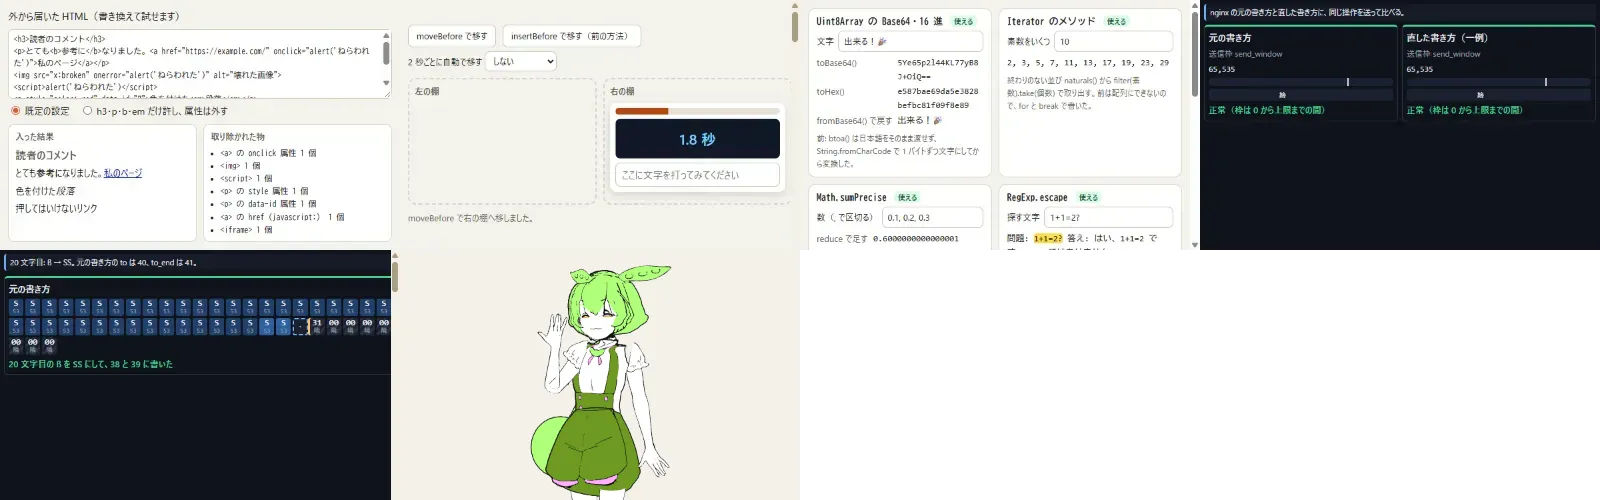
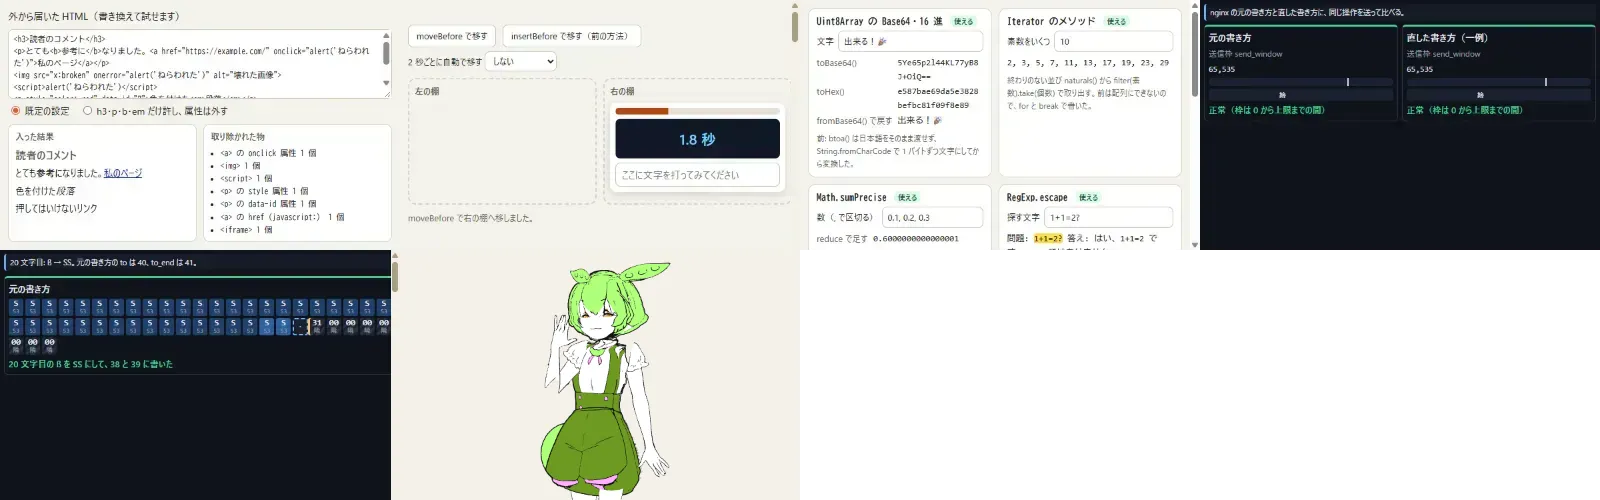
ずんだもん: 点検で見つかった崩れを直す（向きの切り替え・まばたき・飾り・髪の束・お辞儀の頭・脚の横の幅）
- 正面と横の絵の切り替えを 68 度にし、2 枚を重ねる幅を ±1.8 度に狭くした（二重に見えるのを防ぐ）
- 見る向きが絵から 12 度より離れたら、隣の向きの絵を下に敷く。向こうを向いた曲線は描かない
- まばたき: 瞳の上下から閉じる位置を決め、まつげを帯で動かし、髪を切らない
- 飾り: 画面に写した幅を正面の 45% より細くしない。横から見るほど手前の飾りを起こす
- 髪の束: 帯を先ほど太くして玉とつなげ、渦の線は横から見るときだけ描く。根元に髪留め
- 頭の前後の傾きを 0.45 ラジアンまでにする（limitTilt。お辞儀を正面から見ても顔がつぶれない）
- 髪の部品の 5 画素より小さな形（写したときの点のごみ）を描かない
- 脚の横の幅を 0.6 から 0.8 にした（横の外形の IoU 0.843 → 0.857）

Changed region(s): [[0.3125, 0.51, 0.4375, 0.93], [0.3438, 0.96, 0.4062, 0.99]]

diff --git a/entries/zunda.js b/entries/zunda.js
@@ -132,7 +132,7 @@ button:focus-visible { outline: 2px solid #234; outline-offset: 2px; }
     // 入れ替える所（4 分の 1 周の中の割合）: 正面と横の間は横寄り（正面の絵の方が、回しても崩れにくい）、横と後ろの間は真ん中。
     // band はなめらかに入れ替える幅（割合）
     const VIEWS = ['front', 'left', 'back', 'right'];
-    const SWITCH = [0.7, 0.5, 0.5, 0.3], BAND = 0.05;
+    const SWITCH = [68 / 90, 0.5, 0.5, 22 / 90], BAND = 0.02;
     function viewBlend(theta) {
       const a = ((theta % 360) + 360) % 360, k = Math.floor(a / 90 + 1e-9), t = a / 90 - k;
       const v0 = VIEWS[k % 4], v1 = VIEWS[(k + 1) % 4], m = SWITCH[k % 4];
@@ -140,6 +140,13 @@ button:focus-visible { outline: 2px solid #234; outline-offset: 2px; }
       if (s <= 1e-6) return [{ view: v0, alpha: 1 }];
       if (s >= 1 - 1e-6) return [{ view: v1, alpha: 1 }];
       return s < 0.5 ? [{ view: v1, alpha: 1 }, { view: v0, alpha: 1 - s }] : [{ view: v0, alpha: 1 }, { view: v1, alpha: s }];
+    }
+    // いま描く絵（primary）と、そのとなりの絵（neighbor）と、いま描く絵の向きからのずれ（度）。
+    // 斜めのときは、となりの絵を下に敷く（手前に回り込んだ所に、髪の筋や腰の帯が見える）
+    function viewPair(theta) {
+      const a = ((theta % 360) + 360) % 360, k = Math.floor(a / 90 + 1e-9), t = a / 90 - k;
+      const v0 = VIEWS[k % 4], v1 = VIEWS[(k + 1) % 4], first = t < SWITCH[k % 4];
+      return { primary: first ? v0 : v1, neighbor: first ? v1 : v0, offset: (first ? t : 1 - t) * 90 };
     }
 
     // ---- 骨格と部分（元の絵の座標）----
@@ -157,7 +164,7 @@ button:focus-visible { outline: 2px solid #234; outline-offset: 2px; }
         { name: 'hair', base: 'green', parts: { front: ['hair_back', 'hair_side_r', 'hair_side_l', 'hair_front'], side: ['hair'], back: ['hair'] },
           shape: { front: ['hair_back', 'hair_side_r', 'hair_side_l', 'hair_front', 'face'], side: ['hair', 'face'] } },
         // 顔にも白い下地を塗る（元の絵の顔の塗りは、目と口の所が穴になっている。まばたきや口を開くと、そこが見える）
-        { name: 'face', base: 'white', parts: { front: ['face', 'eye_r', 'eye_l', 'mouth'], side: ['face', 'eye_l'], back: [] }, shareFront: 'hair', facing: -0.4 },
+        { name: 'face', base: 'white', underlay: false, parts: { front: ['face', 'eye_r', 'eye_l', 'mouth'], side: ['face', 'eye_l'], back: [] }, shareFront: 'hair', facing: -0.4 },
       ] },
       { name: 'neck', bone: 'neck', ref: { front: [923.5, 345], side: 233, back: 1566.5 }, bias: -20, groups: one('neck', 'white', { front: ['neck'], side: ['neck'], back: ['neck'] }) },
       // 胴の形には、横の絵の袖も含める（横の絵では胴の後ろ半分が袖に隠れていて、含めないと奥行きが浅くなり、斜めから見ると肩まで届かない）
@@ -176,8 +183,8 @@ button:focus-visible { outline: 2px solid #234; outline-offset: 2px; }
       { part: 'thigh_l', bone: 'leftUpperLeg', child: 'leftLowerLeg', bias: -50 }, { part: 'shin_l', bone: 'leftLowerLeg', parent: 'leftUpperLeg', bias: -30 },
       { part: 'thigh_r', bone: 'rightUpperLeg', child: 'rightLowerLeg', bias: -50 }, { part: 'shin_r', bone: 'rightLowerLeg', parent: 'rightUpperLeg', bias: -30 },
     ];
-    // 横から見た手足の幅（正面の幅に対する割合）。脚の断面は前後に薄い楕円（三面図の横の脚は、正面の約 0.6 倍の幅）、腕は筒
-    const SIDE_W = { leftUpperLeg: 0.6, leftLowerLeg: 0.6, rightUpperLeg: 0.6, rightLowerLeg: 0.6 };
+    // 横から見た手足の幅（正面の幅に対する割合）。脚の断面は前後に少し薄い楕円、腕は筒。脚は 0.6 より 0.8 のほうが横の絵と外形がよく重なる（横の IoU 0.843 → 0.857）
+    const SIDE_W = { leftUpperLeg: 0.8, leftLowerLeg: 0.8, rightUpperLeg: 0.8, rightLowerLeg: 0.8 };
     // 見る向きでの幅の割合: 手足の前の面が見る人へ向く割合 c（0〜1）から、楕円の断面の見かけの幅 √(c² + r²(1 - c²))
     const widthAt = (c, r) => Math.sqrt(c * c + r * r * (1 - c * c));
     // 袖: ふくらみの形を保ったまま、腕の付け根を中心に腕の向きへ回す
@@ -318,14 +325,21 @@ button:focus-visible { outline: 2px solid #234; outline-offset: 2px; }
     // まばたき: 目の部品の点を「閉じた位置」へ動かす関数を作る。prof は列ごとの瞳の上 top と下 bot（x0 の列から）。
     // 閉じた線は瞳の上から 65% の所。瞳の上より上（まつげ）は形を保ったまま閉じた線まで下げ、瞳の中と下のまぶたは閉じた線へつぶす。
     // 閉じた目は、まつげの線 1 本になる。まつげと二重の線（瞳の上から 10 画素まで）は丸ごと下げ、18 画素より上は動かさず、その間で下げる量をなめらかに減らす
+    // 動かすのは瞳の左右の幅のまわりだけ（瞳の端から 14 画素までは丸ごと、24 画素で 0。目の横の髪の線を動かさない）。
+    // 塗り（line でないもの）は、まつげより上を動かさない（まつげの上の肌の白い塗りが下がって、横の髪を隠さないように）
     function eyeCloser(prof) {
-      const n = prof.top.length;
-      return (x, y) => {
+      const n = prof.top.length, x1 = prof.x0 + n - 1, smooth = (u) => { u = Math.max(0, Math.min(1, u)); return u * u * (3 - 2 * u); };
+      // 瞳の範囲（閉じた線を、まつげとまぶたの線だけに使うかを決めるため）
+      const box = { x0: prof.x0, x1, t: Math.min(...prof.top), b: Math.max(...prof.bot) };
+      return Object.assign((x, y, line = true) => {
         const i = Math.max(0, Math.min(n - 1, Math.round(x - prof.x0))), t = prof.top[i], b = prof.bot[i], yc = t + 0.65 * (b - t);
-        if (y >= t + 1) return [x, yc + (y - yc) * 0.04];
-        const u = Math.max(0, Math.min(1, (y - (t - 18)) / 8)), w = u * u * (3 - 2 * u);
-        return [x, y + (yc - t) * w];
-      };
+        const out = Math.max(prof.x0 - x, x - x1, 0), wx = 1 - smooth((out - 14) / 10);
+        if (wx <= 0) return [x, y];
+        if (y >= t + 1) return [x, y + (yc + (y - yc) * 0.04 - y) * wx];
+        if (!line) return [x, y];
+        const w = smooth((y - (t - 18)) / 8);
+        return [x, y + (yc - t) * w * wx];
+      }, { box });
     }
     // 開いた口の形（口の真ん中からの位置、元の絵の画素）。open は開き（0〜1）、width は横の広がり（0〜1）。
     // 上の辺はわずかに下がる曲線、下は半分の楕円
@@ -361,7 +375,7 @@ button:focus-visible { outline: 2px solid #234; outline-offset: 2px; }
     // 中心と幅は、写した 3 方向の絵の髪の束の部品から、高さごとに測った（X は後ろと正面の絵、Z は横の絵）
     const TAIL_REST = [[-4, 325, -67], [-64, 380, -106], [-105, 450, -140], [-140, 525, -168], [-181, 600, -200]];
     // 巻いた先は、正面と後ろからは幅 約 185、横からは 約 135 の丸に見えるので、奥行きの短い楕円の玉として描く（r は X・Y・Z の半径）
-    const TAIL_W = [12, 15, 23, 33, 44], CURL = { c: [-240, 668, -253], r: [92, 92, 66] };
+    const TAIL_W = [12, 16, 28, 46, 64], CURL = { c: [-240, 668, -253], r: [92, 92, 66] };
     const tailInit = (rest) => ({ p: rest.map((v) => v.slice()), q: rest.map((v) => v.slice()), len: rest.slice(1).map((v, i) => Math.hypot(v[0] - rest[i][0], v[1] - rest[i][1], v[2] - rest[i][2])) });
     // 1 コマ進める: 根元は targets[0] に付け、ほかの点は、慣性（前のコマからの動き）と、休みの形の位置へ戻る力と、重さで動かす。
     // 戻る力は先ほど弱く、先ほどよく揺れる。そのあと根元から順に、区間の長さを休みの形の長さに戻す
@@ -404,16 +418,26 @@ button:focus-visible { outline: 2px solid #234; outline-offset: 2px; }
       return { rot, hips: h };
     }
 
-    const Z = { parsePath, subdivide, buildProxy, lift, hull, rotX, rotY, rotZ, mul3, applyMat3, viewAngle, viewBlend, VIEWS, AXIS, REGIONS, CARDS, SLEEVES, SIDE_W, widthAt, view, dequant, sampleClip,
+    // 頭の前後の傾きを抑える: 三面図には上と下から見た絵がないので、頭の上の向き（u = M·(0,-1,0)）が画面から前後へ傾く角度を max までにする。
+    // u を、画面の中の向きを保ったまま、画面へ近づける向きに回す（軸は u × 画面の奥の向き）。横から見たお辞儀は画面の中の回転なので変わらない
+    function limitTilt(M, max) {
+      const u = [-M[1], -M[4], -M[7]], h = Math.hypot(u[0], u[1]), tilt = Math.atan2(u[2], h);
+      if (Math.abs(tilt) <= max) return M;
+      const ax = h > 1e-6 ? norm3([u[1], -u[0], 0]) : [1, 0, 0];   // u × (0,0,1)
+      return mul3(qmat(qaxis(ax, Math.sign(tilt) * max - tilt)), M);
+    }
+    const Z = { parsePath, subdivide, buildProxy, lift, hull, rotX, rotY, rotZ, mul3, applyMat3, viewAngle, viewBlend, viewPair, VIEWS, AXIS, REGIONS, CARDS, SLEEVES, SIDE_W, widthAt, view, dequant, sampleClip,
       TAIL_REST, TAIL_W, CURL, tailInit, tailStep, eyeCloser, mouthShape, vowels, VOWEL_SHAPE,
       qmul, qconj, qaxis, qrot, qfromTo, qslerp, qmat, norm3, SKEL, buildSkeleton, restLocals, fk, boneDraw, HIPS_REST, PX_PER_M, hipsFromMotion, cardMap, jointBlend,
-      FLOOR_Y, HIPS_BOTTOM, groundOffset };
+      FLOOR_Y, HIPS_BOTTOM, groundOffset, limitTilt };
   },
   js() {
     const t0 = performance.now(), cv = document.getElementById('c'), g = cv.getContext('2d');
     const D = window.DEKIRU_DATA, SRC = { front: D['zunda-front'], side: D['zunda-side'], back: D['zunda-back'] }, PAL = SRC.front.palette;
     // ---- 曲線を読む（長い区間は 6 画素以下に分ける）----
-    const prep = (V) => V.shapes.map((s, i) => ({ i, part: s.part, kind: s.kind, color: V.palette[s.color], subs: Z.parsePath(s.d, V.origin).map((q) => Z.subdivide(q, 6)) }));
+    // 髪の部品の、5 画素より小さな部分（写したときの点のごみ）は描かない。髪の形から外れた所にあると、立体にしたときに頭の上に浮く
+    const speck = (q) => { let x0 = 1e9, y0 = 1e9, x1 = -1e9, y1 = -1e9; for (let j = 0; j < q.length; j += 2) { x0 = Math.min(x0, q[j]); x1 = Math.max(x1, q[j]); y0 = Math.min(y0, q[j + 1]); y1 = Math.max(y1, q[j + 1]); } return Math.max(x1 - x0, y1 - y0) < 5; };
+    const prep = (V) => V.shapes.map((s, i) => ({ i, part: s.part, kind: s.kind, color: V.palette[s.color], subs: Z.parsePath(s.d, V.origin).filter((q) => !(s.part.startsWith('hair') && speck(q))).map((q) => Z.subdivide(q, 6)) }));
     const ART = { front: prep(SRC.front), side: prep(SRC.side), back: prep(SRC.back) };
     function addSub(p, s, f) {
       let q = f(s[0], s[1]); p.moveTo(q[0], q[1]);
@@ -435,7 +459,7 @@ button:focus-visible { outline: 2px solid #234; outline-offset: 2px; }
     }
     // 確かめ用の状態（spread: 貼るときの広げ方、force: 1 枚の絵だけを描く、cam: 見る向き（ラジアン）、clip・time: 動きと時刻を決める、
     // blink: まばたきを決める（null なら自動）、mouth: 口の [開き, 幅] を決める）
-    const state = { spread: 1.3, outline: 1.2, base: true, force: null, cam: 0, camPitch: 0, clip: null, time: null, paused: false, blink: null, mouth: null, frame: null };
+    const state = { spread: 1.3, outline: 1.2, base: true, force: null, cam: 0, camPitch: 0, clip: null, time: null, paused: false, blink: null, mouth: null, frame: null, hide: null };   // hide: 確かめ用に描かない部分（'pods' など）
     // 目: 瞳（オレンジと黄色）の塗りを画素に描いて、列ごとの上と下を数え、閉じた位置へ動かす関数を作る。
     // 白い塗りで測らない（目の部品には、まつげの上の肌も入っている）。瞳の塗りがない目（横の絵）は、白い塗りで測る
     function eyeProfile(shapes, V) {
@@ -456,6 +480,7 @@ button:focus-visible { outline: 2px solid #234; outline-offset: 2px; }
       const t = Math.min(...top.filter((v) => !Number.isNaN(v))), b = Math.max(...bot.filter((v) => !Number.isNaN(v)));
       return Z.eyeCloser({ x0: x0 + V.origin[0], top: top.map(() => t), bot: bot.map(() => b) });
     }
+    const VDIR = { front: [0, 0, 1], left: [1, 0, 0], back: [0, 0, -1], right: [-1, 0, 0] };   // 絵ごとの、見る人の向き
     const EYES = { front: {}, side: {} };
     for (const [v, list] of [['front', ['eye_r', 'eye_l']], ['side', ['eye_l']]]) for (const part of list) EYES[v][part] = eyeProfile(ART[v].filter((s) => s.part === part), SRC[v]);
 
@@ -477,13 +502,21 @@ button:focus-visible { outline: 2px solid #234; outline-offset: 2px; }
       // 目の部品は、閉じた位置（ptsC）も持ち上げておく（まばたきは、毎コマ開いた位置との間をつなぐ）
       const liftArt = (shapes, view, toU) => shapes.map((s) => {
         const closer = EYES[view === 'front' ? 'front' : 'side']?.[s.part];
-        const liftQ = (q, f) => {
-          const o = new Float32Array(q.length / 2 * 3), PP = view === 'front' || view === 'back' ? Pfront : P;
-          for (let i = 0, j = 0; i < q.length; i += 2, j += 3) { const [x, y] = f(q[i], q[i + 1]), p = Z.lift(PP, view, toU(x), y, state.spread); o[j] = p[0]; o[j + 1] = p[1] - jy; o[j + 2] = p[2]; }
+        // 閉じた線ごとに、立体の形の上の向き（法線）の平均も残す（見る人から向こうを向いた線は描かない）
+        const nrm = [];
+        const liftQ = (q, f, keep) => {
+          const o = new Float32Array(q.length / 2 * 3), PP = view === 'front' || view === 'back' ? Pfront : P; let nx = 0, ny = 0, nz = 0;
+          for (let i = 0, j = 0; i < q.length; i += 2, j += 3) { const [x, y] = f(q[i], q[i + 1]), p = Z.lift(PP, view, toU(x), y, state.spread); o[j] = p[0]; o[j + 1] = p[1] - jy; o[j + 2] = p[2]; nx += p[3]; ny += p[4]; nz += p[5]; }
+          // 4 つ目は、絵の向きから見たときの向き（元の向きでは、その値より向こうを向かない限り描く）
+          if (keep) { const l = Math.hypot(nx, ny, nz) || 1, vd = VDIR[view]; nrm.push(nx / l, ny / l, nz / l, (nx * vd[0] + nz * vd[2]) / l); }
           return o;
         };
-        const out = { ...s, facing: G.facing ?? -2, pts: s.subs.map((q) => liftQ(q, (x, y) => [x, y])) };
-        if (closer && view !== 'back') out.ptsC = s.subs.map((q) => liftQ(q, closer));
+        const line = s.kind === 'line';
+        const out = { ...s, facing: G.facing ?? -2, underlay: G.underlay !== false, pts: s.subs.map((q) => liftQ(q, (x, y) => [x, y], true)) };
+        out.nrm = Float32Array.from(nrm);
+        // 閉じた位置へ動かすのは、まつげとまぶたの高さに収まる線だけ（目の部品に入った、縦に長い髪の筋の線は動かさない）
+        const moves = (q) => { if (!line) return true; let y0 = Infinity, y1 = -Infinity, xs = 0; for (let i = 0; i < q.length; i += 2) { y0 = Math.min(y0, q[i + 1]); y1 = Math.max(y1, q[i + 1]); xs += q[i]; } const cx = xs / (q.length / 2), b = closer.box; return y0 >= b.t - 24 && y1 <= b.b + 10 && cx >= b.x0 - 22 && cx <= b.x1 + 22; };
+        if (closer && view !== 'back') out.ptsC = s.subs.map((q, k) => (moves(q) ? liftQ(q, (x, y) => closer(x, y, line), false) : out.pts[k]));
         return out;
       });
       const lifted = { front: liftArt(art.front, 'front', (x) => x - jx), left: liftArt(art.side, 'left', (x) => jz - x), back: liftArt(art.back, 'back', (x) => jb - x), right: liftArt(art.side, 'right', (x) => jz - x) };
@@ -532,10 +565,39 @@ button:focus-visible { outline: 2px solid #234; outline-offset: 2px; }
       }) }));
       let tip = base, far = 0;
       for (const s of shapes) for (const o of s.pts) for (let j = 0; j < o.length; j += 3) { const d = Math.hypot(o[j] - base[0], o[j + 1] - base[1], o[j + 2] - base[2]); if (d > far) { far = d; tip = [o[j], o[j + 1], o[j + 2]]; } }
-      return { part, shapes, base, tip, n: Z.norm3([k * side, 0, 1]), sim: null };
+      // 板の上の向き: u は根元から先、v は幅（u と板の向き n に直交）。点は、根元からの u と v の量（a, b）で持つ
+      const n = Z.norm3([k * side, 0, 1]), u = Z.norm3([tip[0] - base[0], tip[1] - base[1], tip[2] - base[2]]);
+      const v = Z.norm3([n[1] * u[2] - n[2] * u[1], n[2] * u[0] - n[0] * u[2], n[0] * u[1] - n[1] * u[0]]);
+      for (const s of shapes) s.ab = s.pts.map((o) => { const r = new Float32Array(o.length / 3 * 2); for (let j = 0, i = 0; j < o.length; j += 3, i += 2) { const d = [o[j] - base[0], o[j + 1] - base[1], o[j + 2] - base[2]]; r[i] = d[0] * u[0] + d[1] * u[1] + d[2] * u[2]; r[i + 1] = d[0] * v[0] + d[1] * v[1] + d[2] * v[2]; } return r; });
+      return { part, shapes, base, tip, n, u, v, side, sim: null };
     });
+    // 飾りを描く: 板の向き u・v を回転 q で回して画面に写す。写した幅（u に直交する向きの量）が正面の 45% より細いときは、45% まで広げる
+    // （板が真横を向いても、細い線にならず葉の形が見える）
+    const POD_MIN_W = 0.45, POD_MIN_LEN = 0.35;   // 画面に写した飾りの幅と長さの下限（正面のときを 1 とする）
+    function drawPod(tg, pod, q, M, J, S, only) {
+      const U = Z.applyMat3(M, Z.qrot(q, pod.u)), V = Z.applyMat3(M, Z.qrot(q, pod.v)), B0 = Z.applyMat3(M, pod.base);
+      // 画面の上で、u の向き（ux, uy）と、それに直交する向き（px, py）に分ける。幅は直交する向きの量で測る
+      let lu = Math.hypot(U[0], U[1]), ux = 0, uy = -1;
+      if (lu > 1e-3) { ux = U[0] / lu; uy = U[1] / lu; }
+      lu = Math.max(lu, POD_MIN_LEN);   // 先がこちらを向いても、点にはしない
+      const px = -uy, py = ux, vPar = V[0] * ux + V[1] * uy, vPerp = V[0] * px + V[1] * py;
+      const vp = (vPerp < 0 ? -1 : 1) * Math.max(Math.abs(vPerp), POD_MIN_W);
+      const Ux = ux * lu, Uy = uy * lu, vx = vPar * ux + vp * px, vy = vPar * uy + vp * py;
+      for (const s of pod.shapes) {
+        if (only && !only(s)) continue;
+        const p = new Path2D();
+        for (const r of s.ab) {
+          const f = (i) => { const x = J[0] + (B0[0] + r[i] * Ux + r[i + 1] * vx) * S, y = J[1] + (B0[1] + r[i] * Uy + r[i + 1] * vy) * S; grow(x, y); return [x, y]; };
+          const a = f(0); p.moveTo(a[0], a[1]);
+          for (let i = 2; i + 6 <= r.length; i += 6) { const b = f(i), c = f(i + 2), d = f(i + 4); p.bezierCurveTo(b[0], b[1], c[0], c[1], d[0], d[1]); }
+          p.closePath();
+        }
+        tg.fillStyle = s.color; tg.fill(p);
+      }
+    }
     // 飾りの揺れ: 根元と先の 2 点の鎖を、頭の動きに遅れて揺らし、その向きの差（最大 25 度）で飾りの点を根元のまわりに回す
-    function podFrame(pod, P, dt) {
+    const POD_TILT = 0.75;   // 真横から見たときに、手前の飾りの先を上へ起こす角度（ラジアン）
+    function podFrame(pod, P, dt, M) {
       const d = Z.boneDraw(SK, P, BI.head), hp = P.p[BI.head];
       const world = (v) => { const o = Z.qrot(d.q, v); return [hp[0] + o[0], hp[1] + o[1], hp[2] + o[2]]; };
       const targets = [world(pod.base), world(pod.tip)];
@@ -545,8 +607,13 @@ button:focus-visible { outline: 2px solid #234; outline-offset: 2px; }
       let q = Z.qfromTo([pod.tip[0] - pod.base[0], pod.tip[1] - pod.base[1], pod.tip[2] - pod.base[2]], [tl[0] - pod.base[0], tl[1] - pod.base[1], tl[2] - pod.base[2]]);
       const ang = 2 * Math.acos(Math.min(1, Math.abs(q[3]))), MAX = 25 * Math.PI / 180;
       if (ang > MAX) q = Z.qslerp([0, 0, 0, 1], q, MAX / ang);
-      const b = pod.base, rot = (o) => { const out = new Float32Array(o.length); for (let j = 0; j < o.length; j += 3) { const v = Z.qrot(q, [o[j] - b[0], o[j + 1] - b[1], o[j + 2] - b[2]]); out[j] = b[0] + v[0]; out[j + 1] = b[1] + v[1]; out[j + 2] = b[2] + v[2]; } return out; };
-      return { shapes: pod.shapes.map((s) => ({ ...s, pts: s.pts.map(rot) })), n: Z.qrot(q, pod.n) };
+      // 横から見るほど、先を上へ起こす（三面図の横の絵では、飾りが上と後ろへ立っている。正面の絵の形は変えない）
+      // 軸は u × 真上（-Y）。この軸のまわりに正の角度で回すと、先が上へ向く
+      // 手前の飾りだけを大きく起こし、向こうの飾りは後ろへ伸ばしたままにする（真横では 2 つが重なって 1 つに見えるため。三面図の横の絵も、1 つは立ち、1 つは後ろへ伸びる）
+      const sn = Math.sin(Z.viewAngle(M) * Math.PI / 180), ax = Z.norm3([pod.u[2], 0, -pod.u[0]]);
+      const zb = M[6] * pod.base[0] + M[7] * pod.base[1] + M[8] * pod.base[2], near = 0.5 + 0.5 * Math.max(-1, Math.min(1, zb / Math.abs(pod.base[0])));
+      q = Z.qmul(q, Z.qaxis(ax, POD_TILT * sn * sn * near));
+      return q;
     }
     // 髪の束: 根元は頭（首の後ろの玉）に付け、ほかの点は胸に付いた休みの形へ戻りながら揺れる
     let tail = null;
@@ -638,9 +705,12 @@ button:focus-visible { outline: 2px solid #234; outline-offset: 2px; }
     const clearBox = (L, b) => { L.g.setTransform(1, 0, 0, 1, 0, 0); L.g.globalAlpha = 1; L.g.globalCompositeOperation = 'source-over'; L.g.clearRect(b[0], b[1], b[2], b[3]); };
     // 3D の点の並び（部分の付け根からの位置）を、回転 M・付け根の画面の位置 J・縮尺 S で写して塗る
     let blinkNow = 0;   // いまのまばたき（0 開く〜1 閉じる）
+    const CULL = 0.08;  // 閉じた線の向きが、見る人の方へこれより向いていなければ描かない（元の絵の向きより 0.15 以上向こうを向いたときだけ。息や小さな揺れでは消さない）
     function fillPts(tg, s, M, J, S) {
       const p = new Path2D(), bl = s.ptsC ? blinkNow : 0;
       for (let n = 0; n < s.pts.length; n++) {
+        // 立体の形の上で向こうを向いた閉じた線は描かない（回すと奥の線が縁に押し寄せて重なるため）
+        if (s.nrm && M[6] * s.nrm[n * 4] + M[7] * s.nrm[n * 4 + 1] + M[8] * s.nrm[n * 4 + 2] < Math.min(CULL, s.nrm[n * 4 + 3] - 0.15)) continue;
         const q = s.pts[n], qc = bl > 0 ? s.ptsC[n] : null;
         const f = (k) => {
           let X = q[k], Y = q[k + 1], Zz = q[k + 2];
@@ -688,6 +758,9 @@ button:focus-visible { outline: 2px solid #234; outline-offset: 2px; }
       const front = blend[blend.length - 1].view === 'front' && M[8] > 0.2, open = R.name === 'head' && front ? mouthNow[0] : 0;
       outlined(S, (tg) => {
         if (state.base) for (const G of R.groups) if (G.base && M[8] >= (G.facing ?? -2)) drawBase(tg, G, M, J, S);
+        // 斜めのとき（いま描く絵の向きから 12 度より離れたとき）は、となりの向きの絵を下に敷く（顔は敷かない）
+        const pair = Z.viewPair(theta);
+        if (!state.force && pair.offset > 12) for (const s of R.lifted[pair.neighbor]) if (s.underlay && M[8] >= s.facing) fillPts(tg, s, M, J, S);
         for (const { view, alpha } of blend) {
           // 口を開いているときは、閉じた口（:3）の線を描かない
           const list = R.lifted[view].filter((s) => M[8] >= s.facing && !(open > 0.12 && s.part === 'mouth' && s.kind === 'line'));
@@ -739,7 +812,9 @@ button:focus-visible { outline: 2px solid #234; outline-offset: 2px; }
       mouthNow = [mouthNow[0] + (m[0] - mouthNow[0]) * r, mouthNow[1] + (m[1] - mouthNow[1]) * r];
     }
     // 髪の束: 鎖の点をなめらかな線（Catmull-Rom）でつなぎ、幅を付けた帯にする。先に丸く巻いた所（3D の円盤を写した楕円）を付ける
-    function drawTail(pts, curl, S) {
+    // side: 横から見ている度合い（0: 正面か後ろ、1: 真横）。巻いた筋は、三面図の横の絵にだけあるので、横から見るときだけ描く
+    function drawTail(pts, curl, S, side) {
+      const cx = curl.reduce((a, q) => a + q[0], 0) / curl.length, cy = curl.reduce((a, q) => a + q[1], 0) / curl.length;
       outlined(S, (tg) => {
         const sm = [], wd = [];
         for (let i = 0; i < pts.length - 1; i++) {
@@ -751,6 +826,8 @@ button:focus-visible { outline: 2px solid #234; outline-offset: 2px; }
           }
         }
         sm.push(pts[pts.length - 1].slice(0, 2)); wd.push(Z.TAIL_W[Z.TAIL_W.length - 1] * S / 2);
+        // 帯の先を玉の中まで伸ばして、帯と玉を 1 つにつなげる（三面図では、帯が太くなりながら玉に入る）
+        const e = pts[pts.length - 1]; sm.push([e[0] + (cx - e[0]) * 0.55, e[1] + (cy - e[1]) * 0.55]); wd.push(Z.TAIL_W[Z.TAIL_W.length - 1] * S / 2);
         const L = [], R = [];
         sm.forEach((p, i) => {
           const a = sm[Math.max(0, i - 1)], b = sm[Math.min(sm.length - 1, i + 1)], dx = b[0] - a[0], dy = b[1] - a[1], l = Math.hypot(dx, dy) || 1;
@@ -764,6 +841,19 @@ button:focus-visible { outline: 2px solid #234; outline-offset: 2px; }
           tg.fill(p);
         }
       });
+      // 先の玉の中の、巻いた筋: 帯が入る所から、帯が進む向きに玉の中心のまわりを回りながら内側へ入る渦の線
+      const al = Math.max(0, Math.min(1, (side - 0.45) / 0.3));
+      if (al > 0) {
+        const rx = (Math.max(...curl.map((q) => q[0])) - Math.min(...curl.map((q) => q[0]))) / 2, ry = (Math.max(...curl.map((q) => q[1])) - Math.min(...curl.map((q) => q[1]))) / 2;
+        const end = pts[pts.length - 1], prev = pts[pts.length - 2], a0 = Math.atan2(end[1] - cy, end[0] - cx);
+        // 回る向き: 帯の先の点が、中心のまわりをどちら向きに回りながら進むか（r × t の符号）
+        const dir = (end[0] - cx) * (end[1] - prev[1]) - (end[1] - cy) * (end[0] - prev[0]) >= 0 ? 1 : -1;
+        g.save(); g.globalAlpha = al; g.strokeStyle = PAL.line; g.lineWidth = Math.max(1, 2 * S); g.lineCap = 'round'; g.beginPath();
+        for (let k = 0; k <= 24; k++) { const t = k / 24, a = a0 + dir * t * 2.6, r = 0.92 - 0.42 * t, x = cx + Math.cos(a) * rx * r, y = cy + Math.sin(a) * ry * r; if (k) g.lineTo(x, y); else g.moveTo(x, y); }
+        g.stroke(); g.restore();
+      }
+      // 根元の桃色の髪留め（三面図の横と後ろの絵にある玉）
+      const r0 = pts[0]; g.fillStyle = PAL.pink; g.beginPath(); g.arc(r0[0], r0[1], 8 * S, 0, Math.PI * 2); g.fill(); g.lineWidth = Math.max(1, 1.6 * S); g.stroke();
     }
     // 手足の板: 骨ごとの写し方（cardMap）を、点ごとの重みで混ぜる
     function drawCard(C, maps) {
@@ -801,6 +891,7 @@ button:focus-visible { outline: 2px solid #234; outline-offset: 2px; }
         g.fillStyle = sh.color; g.fill(p);
       }
     }
+    const HEAD_TILT = 0.45;   // 頭が見る人の方へ（または奥へ）傾いて見える角度の上限（ラジアン）。お辞儀を正面から見たとき、顔がつぶれないようにする
     let scrEnd = null, faceSign = () => 1;
     // ---- 1 コマ ----
     let prevT = null, clock = 0, follow = 0, lastHead = null;
@@ -835,14 +926,14 @@ button:focus-visible { outline: 2px solid #234; outline-offset: 2px; }
       // 描くものを、見る人からの近さ（＋部品ごとの差）の順に並べる
       const items = [];
       for (const R of REG) {
-        const d = Z.boneDraw(SK, P, R.bi), M = Z.mul3(C, Z.qmat(d.q));
+        const d = Z.boneDraw(SK, P, R.bi), M0 = Z.mul3(C, Z.qmat(d.q)), M = R.name === 'head' ? Z.limitTilt(M0, HEAD_TILT) : M0;
         items.push({ key: depth(P.p[R.bi]) + R.bias, draw: () => drawRegion(R, M, scr(R.bi), S) });
-        if (R.name === 'head') for (const pod of PODS) {
-          const f = podFrame(pod, P, state.paused ? 0 : dt), J = scr(R.bi), front = M[6] * f.n[0] + M[7] * f.n[1] + M[8] * f.n[2] > 0;
-          // 裏が見えるとき（後ろから）は頭より先に描く（後ろの絵では、根元が髪に隠れている）
+        if (R.name === 'head' && !(state.hide || []).includes('pods')) for (const pod of PODS) {
+          const q = podFrame(pod, P, state.paused ? 0 : dt, M), J = scr(R.bi), nn = Z.qrot(q, pod.n), front = M[6] * nn[0] + M[7] * nn[1] + M[8] * nn[2] > 0;
+          // 裏が見えるとき（後ろから）は豆を描かず外形だけにし、頭より先に描く（後ろの絵では、根元が髪に隠れている）
           items.push({ key: depth(P.p[R.bi]) + R.bias + (front ? 1 : -1), draw: () => {
-            if (front) for (const s of f.shapes) fillPts(g, s, M, J, S);
-            else outlined(S, (tg) => { for (const s of f.shapes) if (s.kind === 'fill' && s.color === PAL.green) fillPts(tg, s, M, J, S); });
+            if (front) drawPod(g, pod, q, M, J, S);
+            else outlined(S, (tg) => drawPod(tg, pod, q, M, J, S, (s) => s.kind === 'fill' && s.color === PAL.green));
           } });
         }
       }
@@ -857,7 +948,8 @@ button:focus-visible { outline: 2px solid #234; outline-offset: 2px; }
         for (let k = 0; k < 32; k++) { const t = k / 32 * Math.PI * 2; disc.push([c[0] + Math.cos(t) * rh, c[1] + Math.sin(t) * rv]); }
         const dz = (chain.reduce((s, q) => s + q[2], 0) + c[2]) / (chain.length + 1);
         // 根元は首の後ろにあるので、首より奥に並べる（後ろから見るときは、平均の近さで胴より手前に来る）
-        items.push({ key: dz - 60, draw: () => drawTail(chain, disc, S) });
+        const sd = Math.min(1, Math.abs(ax[0][2]) / Z.CURL.r[0]);
+        items.push({ key: dz - 60, draw: () => drawTail(chain, disc, S, sd) });
       }
       items.sort((a, b) => a.key - b.key);
       updateFace(state.paused ? 0 : dt);

diff --git a/js/thumbs.js b/js/thumbs.js
@@ -1,5 +1,5 @@
 // 一覧のカードの静止画の目録。node tools/thumbs.mjs が作る。手で直さない
-window.DEKIRU_THUMBS = {"v":1,"w":400,"h":250,"cols":4,"rows":2,"sheets":["68d72c","4e08da","19ffa2","dd35ff","dd3a9c","60fbf0","63e81e","b7a4d3","686b21","92cefe","eb8186","f2066e","45a218","2a91ab","37d693","24ab4a","5a54cd","f752e7","d5e527","6c6f03","a925dd","52db0c","cf580e","4ff3cb","e52822","8d4c85","86cb75","aea336","88ed5d","d743dc","151077","a2a63d","026310","3bb873","eda318","f2d7f7","5b432b","315430","5da556","f6d5b0","4c1b0f","a1602a","17a31a","899807","4aa5ef","74e1f4","5c3a3a","18757a","ce7b78","9b8854","d15b89","b18e2c","f68cc0","50dd37","d7bec3","1b14a4","c3c5fd","fbea8e","9b356e","5efb07","b5f169","62dca2","a256ca"],"at":{
+window.DEKIRU_THUMBS = {"v":1,"w":400,"h":250,"cols":4,"rows":2,"sheets":["68d72c","4e08da","19ffa2","dd35ff","dd3a9c","60fbf0","63e81e","b7a4d3","686b21","92cefe","eb8186","f2066e","45a218","2a91ab","37d693","24ab4a","5a54cd","f752e7","d5e527","6c6f03","a925dd","52db0c","cf580e","4ff3cb","e52822","8d4c85","86cb75","aea336","88ed5d","d743dc","151077","a2a63d","026310","3bb873","eda318","f2d7f7","5b432b","315430","5da556","f6d5b0","4c1b0f","a1602a","17a31a","899807","4aa5ef","74e1f4","5c3a3a","18757a","ce7b78","9b8854","d15b89","b18e2c","f68cc0","50dd37","d7bec3","1b14a4","c3c5fd","fbea8e","9b356e","5efb07","b5f169","62dca2","3c3c56"],"at":{
 "tr-20261119-partial-eval":[60,0,"d237915398"],
 "tr-20261119-h2-window-underflow":[62,3,"5437b6d605"],
 "tr-20261119-upcase-overflow":[62,4,"9067f99f81"],
@@ -105,7 +105,7 @@ window.DEKIRU_THUMBS = {"v":1,"w":400,"h":250,"cols":4,"rows":2,"sheets":["68d72
 "3d-vroid-toon":[12,0,"0255b0961b"],
 "3d-vroid-motion":[12,1,"63aab2e7fa"],
 "3d-vroid-shore":[12,2,"6a2efe1ff4"],
-"3d-zunda-move":[62,5,"4d7ec391d0"],
+"3d-zunda-move":[62,5,"562d040492"],
 "astra-fold-map":[58,7,"01b42aa076"],
 "cv-paint":[12,3,"70672b37e2"],
 "cv-flowfield":[12,4,"4fb1c2eb2f"],
